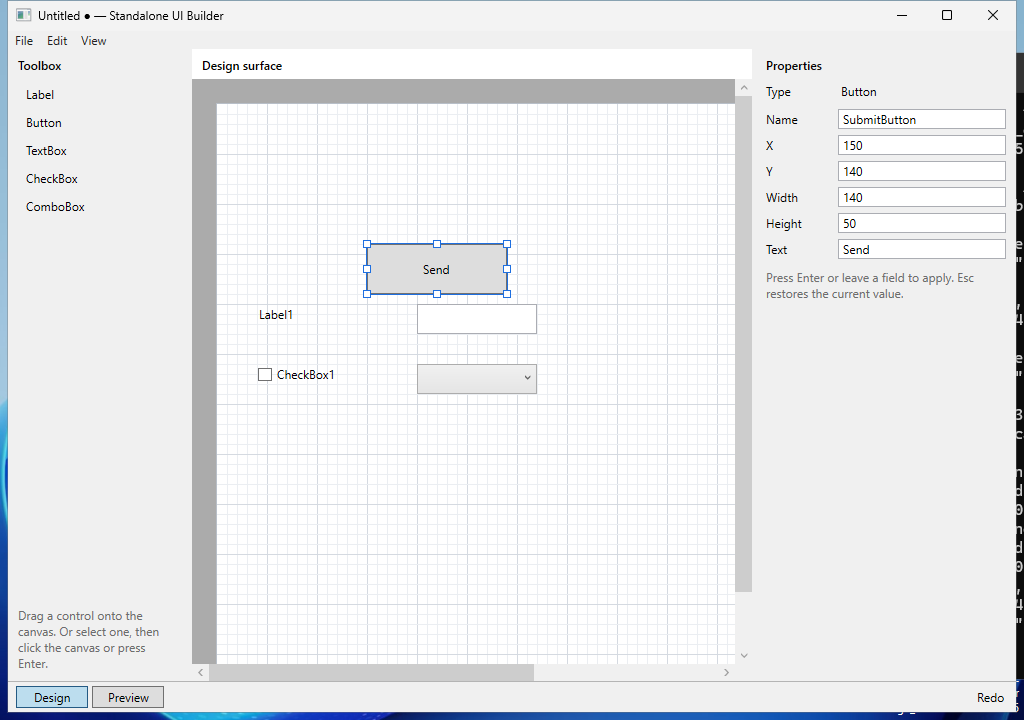
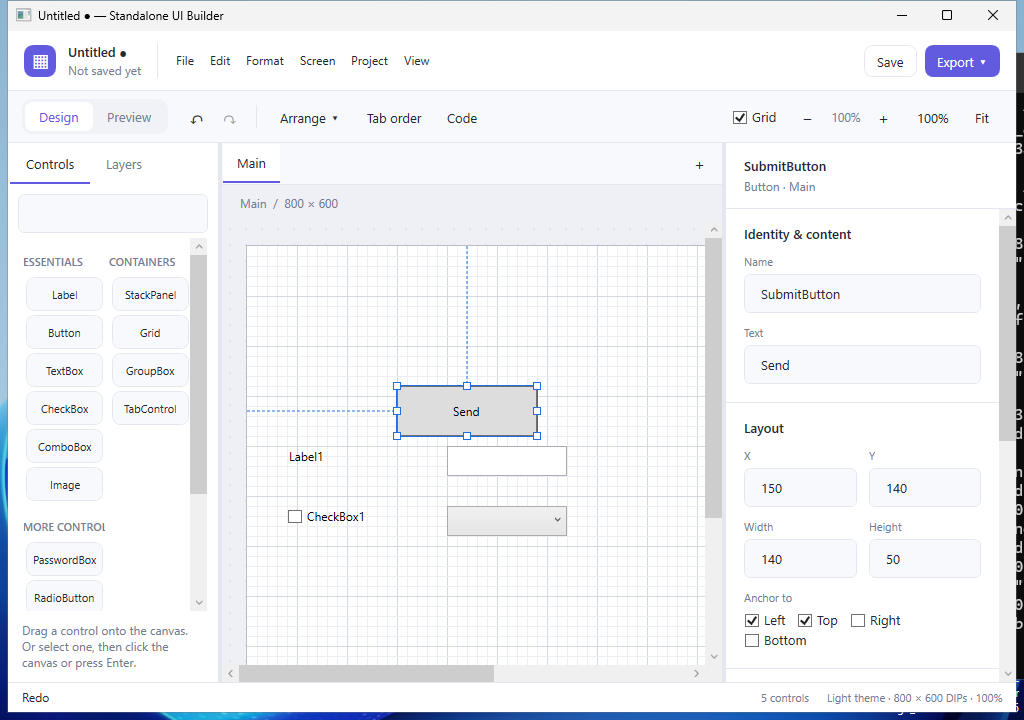
README: screenshots of the redesigned editor; the inspector
Claude-Session: https://claude.ai/code/session_016LSfgogfJxT7o7ohqTWCmt

diff --git a/README.md b/README.md
@@ -24,7 +24,7 @@ its menus, Save and Export. It follows Windows' light or dark app setting.
 - **Edit.** Click a control to select it. Drag it to move it, or drag its handles to resize
   it. Moves and resizes snap to the grid and stay inside the canvas. Delete removes the
   selected control.
-- **Properties.** The Properties panel edits name, X, Y, width and height for every control,
+- **Properties.** The inspector edits name, X, Y, width and height for every control,
   plus text, checked state, list items (one per line), a Slider's or ProgressBar's minimum,
   maximum and value, or a TextBox's multi-line option where they apply. Text size, bold,
   text colour and background colour (`#RRGGBB`) style a control in the designer and in every
@@ -38,12 +38,12 @@ its menus, Save and Export. It follows Windows' light or dark app setting.
 - **Containers.** StackPanel lines controls up vertically or horizontally with a gap;
   GroupBox does the same inside a titled frame; TabControl holds pages, each a stack, and
   shows one at a time (click a tab on the canvas, or choose the shown tab and add tabs in the
-  Properties panel); Grid
+  inspector); Grid
   divides itself into equal rows and columns with one control per cell. Drag or click a
   toolbox item into a container, or drag a control in or out; the target container is
   outlined in green. Inside a stack a control keeps its height (or width) and stretches
   across; in a grid it fills its cell. Containers can be nested and anchored like any
-  control, so whole groups resize with the window. The Properties panel sets a stack's
+  control, so whole groups resize with the window. The inspector sets a stack's
   direction and spacing, a grid's rows and columns and their sizes (fixed DIPs like `100`,
   or shares of the rest like `*` and `2*`), and a control's order, or its cell and how many
   rows and columns it spans.
@@ -77,7 +77,7 @@ its menus, Save and Export. It follows Windows' light or dark app setting.
   them; Ctrl+PageUp and Ctrl+PageDown switch between them. The first screen is the one an
   exported app opens with; each other screen becomes its own window or form. A Button's "On
   click" setting can open another screen as a dialog or close its own, in Preview and in
-  exported apps. With nothing selected, the Properties panel sets the screen's name, width and
+  exported apps. With nothing selected, the inspector sets the screen's name, width and
   height.
 - **Undo and redo.** Ctrl+Z and Ctrl+Y cover adding, deleting, moving, resizing and property
   changes, and screen changes. A whole drag is one step. Undo shows the screen the change
@@ -109,7 +109,7 @@ Try it with the samples: File > Open > `docs\samples\customer-form.uibproj`, or
 
 | Design | Preview |
 |---|---|
-| ![Design mode with a selected button and the Properties panel](docs/screenshots/design-mode.png) | ![Preview mode with typed text, a ticked check box and a chosen ComboBox item](docs/screenshots/preview-mode.png) |
+| ![Design mode with a selected button and the inspector](docs/screenshots/design-mode.png) | ![Preview mode with typed text, a ticked check box and a chosen ComboBox item](docs/screenshots/preview-mode.png) |
 
 More in [`docs/screenshots`](docs/screenshots): the sample project, and a draft recovered
 after a forced close. All were captured on Windows by the CI walkthrough.
@@ -173,7 +173,7 @@ dotnet test StandaloneUiBuilder.sln
   saving and loading, and recovery. It also runs on Linux and macOS.
 - `tests/StandaloneUiBuilder.UiTests` is an end-to-end walkthrough of the prototype
   acceptance steps, plus checks that editing stays responsive with 60 controls and that
-  Tab reaches the toolbox and Properties panel. It drives the real editor with the mouse and keyboard, so it is skipped
+  Tab reaches the toolbox and inspector. It drives the real editor with the mouse and keyboard, so it is skipped
   unless you opt in:
 
   ```powershell
